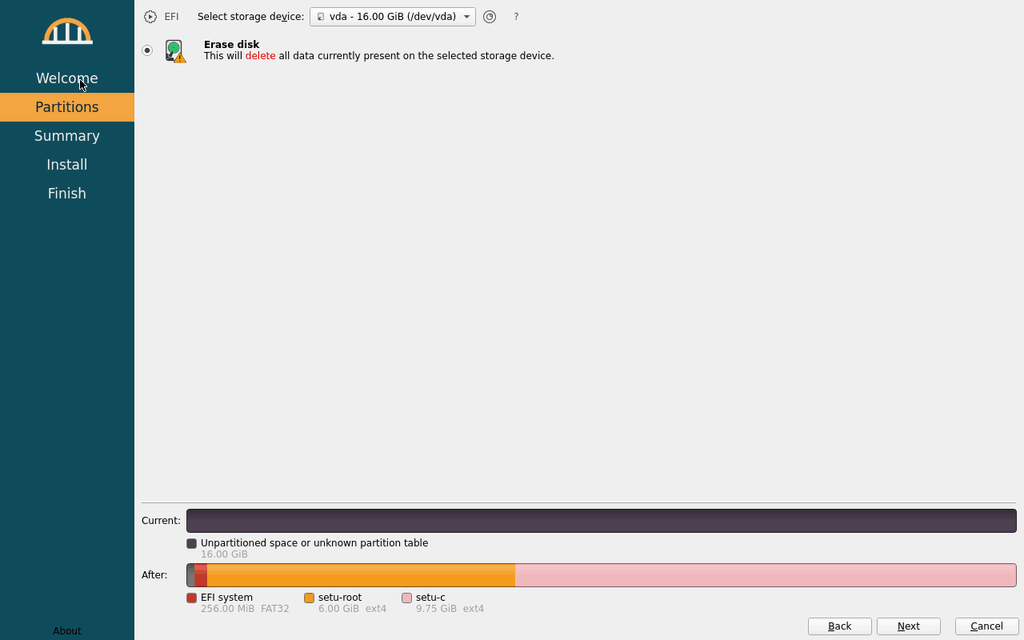
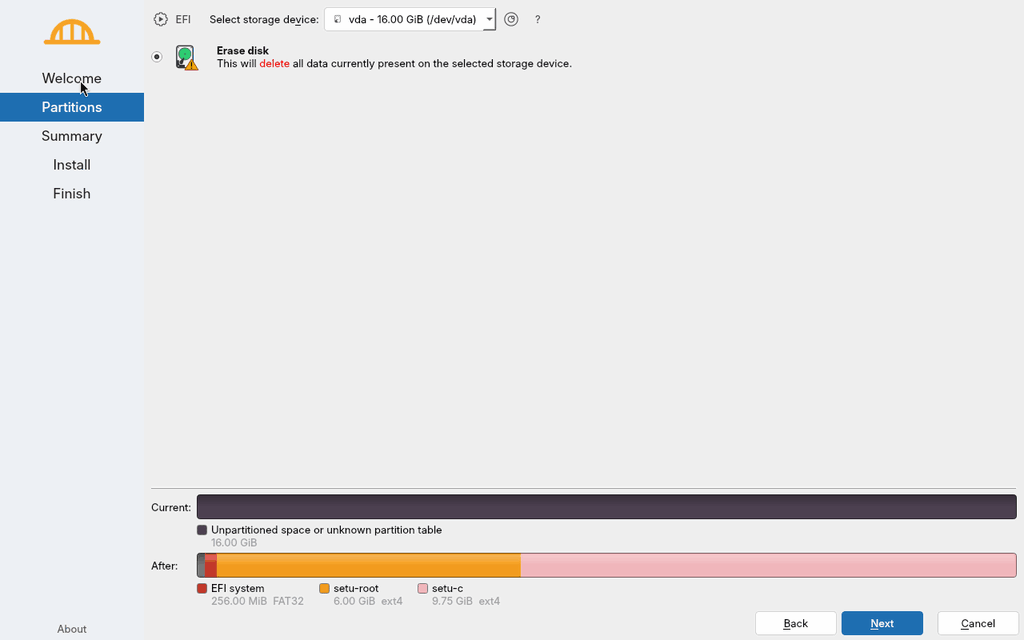
distro: Document Setu's look, record its licences and refresh the screenshots.
distro/README.md gets a Milestone 3 section on fonts, smoothing, the
wallpaper, cursors, the labwc theme, the boot splash, GRUB and the
installer, with before and after screenshots (look-before-*.png are the
old ones). NOTICE gains a section on the look's artwork and on the fonts,
cursor theme and programs installed from Debian, plus the Setu control
theme. The install-*.png and session-msi.png screenshots are from today's
install-smoke and msi-smoke runs.

Setu-Docs: distro/README.md
Claude-Session: https://claude.ai/code/session_01FDkYpcDYFe3xe3wgGrwG4w

Changed region(s): [[0.0, 0.0, 1.0, 1.0]]

diff --git a/distro/README.md b/distro/README.md
@@ -142,11 +142,12 @@ written to the raw output disk, which the host truncates to its size.
 | `layout.env` | the disk layout (ESP, root, C: sizes, names, labels, GPT types), read by the builder and the installer |
 | `rootfs/usr/lib/setu/setu-cvol-init` | makes an ext4 volume into C: (casefold, label, `lost+found` hidden); used by both |
 | `installer/` | the ISO's extra packages, GRUB menu, Calamares config and branding, first-boot wizard |
-| `installer/make-artwork.sh` | regenerates the branding PNGs (ImageMagick) |
+| `installer/make-artwork.sh` | regenerates the branding PNGs (runs `artwork/branding.py`) |
+| `artwork/` | Setu's artwork drawn from code: `wallpaper.py` (the wallpaper, at any size), `branding.py` (the mark, Calamares and boot splash images) |
 | `packages.list` | packages in the image (`packages-wine-debian.list` for `--wine=debian`) |
 | `rootfs/` | files copied into the image as-is |
 | `rootfs/usr/local/bin/setu-session` | the session launcher (personality, desktop size, shell) |
-| `rootfs/etc/xdg/labwc/` | labwc config: no decorations, key bindings or root menu |
+| `rootfs/etc/xdg/labwc/` | labwc config: no decorations, key bindings or root menu; theme and cursor environment |
 | `rootfs/etc/systemd/system/setu-session.service` | tty1 autologin running `labwc -S setu-session` |
 | `../services/fs/` | drive-letter service and its units, installed by `build-image.sh` |
 | `run-qemu.sh` | boots the image (OVMF, virtio-gpu, VNC, serial log, monitor socket) |
@@ -189,7 +190,7 @@ distro/tests/install-smoke.sh                            # install it in QEMU, e
 CD or, written with `dd`, from a USB stick). It starts a Debian live system
 whose only program is the **Calamares** installer (Debian's package, GPL-3)
 with Setu branding (`installer/rootfs/usr/share/calamares/branding/setu/`,
-our own artwork from `installer/make-artwork.sh`: text and plain shapes).
+our own artwork from `artwork/branding.py`, in the docs/DESIGN.md look).
 
 ### How the ISO is built
 
@@ -349,6 +350,45 @@ The other stages: [summary](docs/install-summary.png),
   wizard is Calamares too.
 * The installer erases a whole disk; there is no manual partitioning, no
   install alongside another system and no encryption.
+
+## Milestone 3: Setu's look (fonts, wallpaper, cursors, boot, installer)
+
+The image's part of Setu's visual design ([docs/DESIGN.md](../docs/DESIGN.md));
+the control theme and window frames are the personality's
+(`personality/wine`), the taskbar, start menu and file manager the shell's
+(`shell/`). Everything here is in both the dev image and the ISO (so in
+installed systems too). Licences: NOTICE §5.
+
+| What | Where | Notes |
+|---|---|---|
+| Fonts | `packages.list`: `fonts-inter`, `fonts-jetbrains-mono`, `fontconfig`; `rootfs/etc/fonts/local.conf` | The personality enumerates fonts through fontconfig, so Windows programs see **Inter** and **JetBrains Mono** (and DejaVu); the personality's `FontSubstitutes` (wine.inf) map the Windows UI face names to Inter. For Linux programs (Calamares, foot, labwc) `sans-serif` is Inter and `monospace` JetBrains Mono; antialiased, slight hinting, grayscale. |
+| Font smoothing | `setu-session` | Once per prefix: `HKCU\Control Panel\Desktop` `FontSmoothing`=`2`, `FontSmoothingType`=2 (ClearType, what Windows reports by default) and no `FontSmoothingOrientation`, which makes the personality draw it in grayscale: Xwayland renders in software and the desktop is often viewed scaled in a VM window, where subpixel colour fringes look worse. `SETU_FONT_SMOOTHING=rgb` in the session's environment draws subpixel RGB instead. |
+| Wallpaper | `artwork/wallpaper.py`; `/usr/share/setu/wallpapers/setu-WxH.bmp`, `/usr/share/backgrounds/setu/setu-{1920x1080,3840x2160}.png` | Original soft blue waves with one orange ribbon, drawn from code (numpy + Pillow) in the builder VM at 16 common display sizes from 1024×768 to 3840×2160 (a "fill" crop of one 16:9 picture, ordered dithering). The personality's desktop window paints `HKCU\Control Panel\Desktop\Wallpaper` (user32 `PaintDesktop`), which loads only a `.bmp` and draws it centred and unscaled, so `setu-session` sets it to the `.bmp` of the display's size (else the smallest one that covers it). It does so only while the value is unset or one of these files, so a wallpaper chosen in Windows stays. |
+| Cursors | `packages.list`: `adwaita-icon-theme`; `rootfs/etc/xdg/labwc/environment` | `XCURSOR_THEME=Adwaita`, `XCURSOR_SIZE=24` for every labwc session (desktop, installer, wizard). labwc and Calamares use it, and so do Windows programs: winex11 maps the standard cursors (`IDC_ARROW`, `IDC_IBEAM`, `IDC_WAIT`, the sizing arrows...) to the theme's cursors through libXcursor. A program's own cursor resources stay as they are. Before: Wine's built-in black-and-white arrows. |
+| labwc theme | `rootfs/etc/xdg/labwc/themerc-override`, `rc.xml` `<theme>` | DESIGN.md colours, Inter, 8 px corners, 46×32 title buttons. It shows only on non-Windows windows that ask labwc for decorations, its menus and window switcher: the personality's desktop is one fullscreen, undecorated window and Windows programs draw their own frames inside it (the personality's theme), and Calamares runs fullscreen. |
+| Boot splash | `rootfs/usr/share/plymouth/themes/setu/` (script module), `rootfs/etc/plymouth/plymouthd.conf` | The Setu mark and name on `window-bg` with an accent spinner. `build-rootfs.sh` rebuilds the initramfs after the theme is in place. |
+| GRUB | `rootfs/etc/default/grub.d/setu.cfg`, `installer/grub.cfg` | Installed systems and the dev image: the menu is hidden (hold Shift or press Esc in the one-second wait), `quiet splash loglevel=3`. The serial console still gets everything (`console=ttyS0` is last, `plymouth.ignore-serial-consoles` keeps the splash on screen), which the smoke tests rely on. The ISO keeps its menu (3 s) for "safe graphics"; its default entry boots quietly with the splash. |
+| Installer | `installer/rootfs/usr/share/calamares/branding/setu/` (`branding.desc`, `stylesheet.qss`, PNGs from `artwork/branding.py`) | Light sidebar in the taskbar colour with the current step in the accent, the orange bridge mark, a welcome card and an install slide on the wallpaper, Inter, flat 4 px buttons and fields, the accent default button and a thin accent progress bar. Same texts as before. The first-boot wizard uses the same branding. |
+
+`installer/make-artwork.sh` (or `artwork/branding.py`) redraws the committed
+branding PNGs; it needs `python3-numpy`, `python3-pil` and `fonts-inter`.
+
+Before and after:
+
+![Before: the installed system's session on a flat blue desktop](docs/look-before-install-session.png)
+
+![After: the session on the Setu wallpaper](docs/look-session.png)
+
+![Before: the installer's welcome page in teal and saffron](docs/look-before-install-welcome.png)
+
+![After: the installer's welcome page](docs/install-welcome.png)
+
+Also before: [installing](docs/look-before-install-progress.png),
+[first-boot users page](docs/look-before-install-firstboot-users.png);
+after: [installing](docs/install-progress.png),
+[first-boot users page](docs/install-firstboot-users.png).
+
+![The boot splash](docs/look-splash.png)
 
 ## Later (docs/ARCHITECTURE.md §3.5)
 
